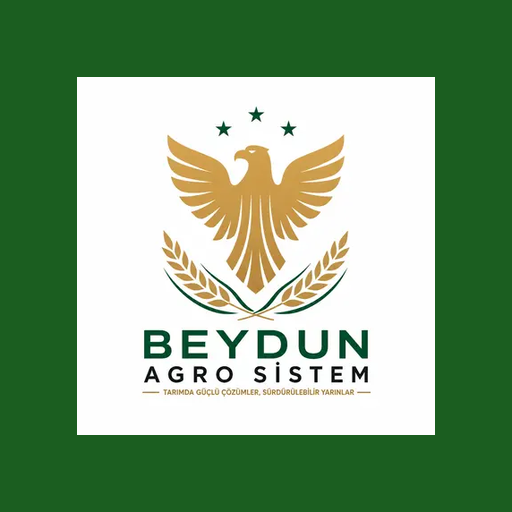
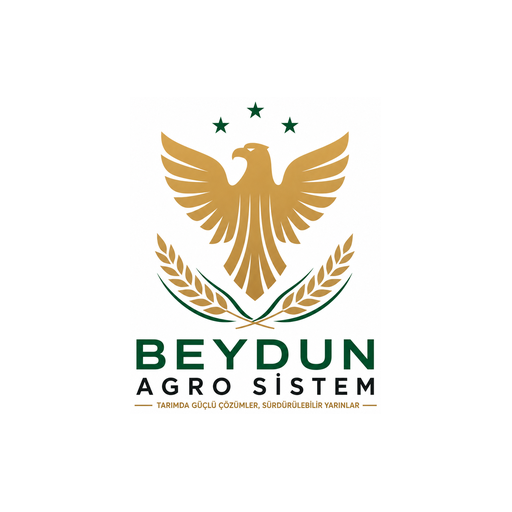
Add files via upload

diff --git a/index.html b/index.html
@@ -1619,10 +1619,6 @@ body.force-desktop .desktop-toggle-btn{bottom:16px;background:linear-gradient(13
       <span class="ni">📊</span><span data-key="dashboard">لوحة التحكم</span></button>
     <button class="nav-btn" onclick="showPage('about')" id="nav-about">
       <span class="ni">🦅</span><span data-key="about">من نحن</span></button>
-    <button class="nav-btn" onclick="showPage('dose')" id="nav-dose" style="background:linear-gradient(135deg,var(--g0),#E8F5E9);border:1.5px solid var(--g1)">
-      <span class="ni">🧪</span><span data-key="navDose">حاسبة الجرعات</span></button>
-    <button class="nav-btn" onclick="showPage('drugtypes')" id="nav-drugtypes" style="background:linear-gradient(135deg,#E8EAF6,#EDE7F6);border:1.5px solid #C5CAE9">
-      <span class="ni">💊</span><span data-key="navDrugtypes">أنواع الدواء</span></button>
   </div>
   <div style="padding:0 6px">
     <div class="nav-lbl" data-key="secDeps">المستودعات</div>
@@ -1643,10 +1639,6 @@ body.force-desktop .desktop-toggle-btn{bottom:16px;background:linear-gradient(13
     <button class="nav-btn" onclick="showPage('invoice')" id="nav-invoice"><span class="ni">🧾</span><span data-key="invoice">فاتورة عميل</span></button>
     <button class="nav-btn" onclick="showPage('sales')" id="nav-sales"><span class="ni">📈</span><span data-key="sales">جرد المبيعات</span></button>
     <button class="nav-btn" onclick="showPage('movements')" id="nav-movements"><span class="ni">🔄</span><span data-key="movements">سجل الحركات</span></button>
-    <button class="nav-btn" onclick="showPage('sprayreminder')" id="nav-sprayreminder" style="background:linear-gradient(135deg,#E8F5E9,#F1F8E9);border:1.5px solid #A5D6A7">
-      <span class="ni">🌿</span><span data-key="sprayReminderPage">وقت العلاج</span>
-      <span class="nav-badge" id="spray-badge" style="display:none;background:#E65100">!</span>
-    </button>
   </div>
   <div style="padding:0 6px">
     <div class="nav-lbl" data-key="secMgmt">الإدارة</div>
@@ -1659,9 +1651,17 @@ body.force-desktop .desktop-toggle-btn{bottom:16px;background:linear-gradient(13
     <button class="nav-btn" onclick="showPage('pricelist')" id="nav-pricelist"><span class="ni">🏷</span><span data-key="pricelist">لائحة الأسعار</span></button>
     <button class="nav-btn" onclick="showPage('customers')" id="nav-customers"><span class="ni">👥</span><span data-key="customers">سجل العملاء</span></button>
     <button class="nav-btn" onclick="showPage('suppliers')" id="nav-suppliers"><span class="ni">🚚</span><span data-key="suppliers">إدارة الموردين</span></button>
-    <button class="nav-btn" onclick="showPage('purchases')" id="nav-purchases" style="background:linear-gradient(135deg,#E8EAF6,#EDE7F6);border:1.5px solid #9FA8DA"><span class="ni">📦</span><span data-key="purchases">فواتير الشراء</span></button>
+    <button class="nav-btn" onclick="showPage('purchases')" id="nav-purchases"><span class="ni">📦</span><span data-key="purchases">فواتير الشراء</span></button>
     <button class="nav-btn" onclick="showPage('products')" id="nav-products"><span class="ni">🧪</span><span data-key="products">إدارة المنتجات</span></button>
     <button class="nav-btn" onclick="openWarehouseManager()" id="nav-whmgr"><span class="ni">🏗</span><span data-key="whmgr">إدارة المستودعات</span></button>
+    <button class="nav-btn" onclick="showPage('dose')" id="nav-dose">
+      <span class="ni">🧪</span><span data-key="navDose">حاسبة الجرعات</span></button>
+    <button class="nav-btn" onclick="showPage('drugtypes')" id="nav-drugtypes">
+      <span class="ni">💊</span><span data-key="navDrugtypes">أنواع الدواء</span></button>
+    <button class="nav-btn" onclick="showPage('sprayreminder')" id="nav-sprayreminder">
+      <span class="ni">🌿</span><span data-key="sprayReminderPage">وقت العلاج</span>
+      <span class="nav-badge" id="spray-badge" style="display:none;background:#E65100">!</span>
+    </button>
     <button class="nav-btn" onclick="openFullBackupModal()" id="nav-backupdata"><span class="ni">💾</span><span data-key="navBackupData">النسخة الاحتياطية</span></button>
   </div>
 </nav>
@@ -2440,6 +2440,7 @@ body.force-desktop .desktop-toggle-btn{bottom:16px;background:linear-gradient(13
         <label style="font-size:11px;color:var(--gy5)" id="lbl-low-threshold">حد المخزون المنخفض:</label>
         <input type="number" id="alert-low-threshold" value="5" min="1" max="100" style="width:60px;font-size:12px;padding:3px 6px;border-radius:5px;border:1px solid var(--gy3)" onchange="renderAlertTab()">
         <span style="font-size:11px;color:var(--gy5)" id="lbl-units">وحدة</span>
+        <button class="btn bsm" id="btn-mark-alerts-read" style="margin-inline-start:auto;background:#2E7D32;color:#fff;border:none;font-size:11px" onclick="markAlertsRead()">✅ <span id="lbl-mark-read" data-key="markRead">تمت القراءة</span></button>
       </div>
       <!-- Content -->
       <div id="alertsPanelBody" style="padding:14px;max-height:450px;overflow-y:auto"></div>
@@ -5463,62 +5464,6 @@ function exportBackup() {
   showToast(`📤 تم التصدير: ${filename}`);
 }
 
-// ── مشاركة النسخة الاحتياطية عبر قائمة مشاركة الجهاز (تلغرام → الرسائل المحفوظة، إلخ) ──
-async function shareBackup() {
-  try { if (typeof loadDosesDB === 'function') loadDosesDB(); } catch(e) {}
-  try { if (typeof loadBackupSettings === 'function') loadBackupSettings(); } catch(e) {}
-
-  var snap = null, raw = null, buildErr = null;
-  try { snap = _buildSnap(); raw = JSON.stringify(snap); } catch(e) { buildErr = e; }
-  if (!raw) {
-    showToast('❌ فشل بناء النسخة الاحتياطية: ' + (buildErr && buildErr.message ? buildErr.message : 'لا توجد بيانات'), 'err');
-    return;
-  }
-
-  const now = new Date();
-  const pad = n => String(n).padStart(2,'0');
-  const datePart = `${now.getFullYear()}-${pad(now.getMonth()+1)}-${pad(now.getDate())}`;
-  const timePart = `${pad(now.getHours())}-${pad(now.getMinutes())}`;
-  const filename = `agro_backup_${datePart}_${timePart}.json`;
-
-  // إن لم تكن مشاركة الملفات مدعومة على هذا الجهاز/المتصفح، نرجع لتصدير عادي
-  if (!(navigator.share && navigator.canShare)) {
-    showToast(currentLang==='ar' ? '⚠ المشاركة غير مدعومة على هذا الجهاز — سيتم التصدير كملف عادي' : '⚠ Paylaşım desteklenmiyor — dosya olarak dışa aktarılıyor', 'err');
-    exportBackup();
-    return;
-  }
-
-  try {
-    const file = new File([raw], filename, { type: 'application/json' });
-    if (!navigator.canShare({ files: [file] })) {
-      showToast(currentLang==='ar' ? '⚠ مشاركة الملفات غير مدعومة هنا — سيتم التصدير كملف عادي' : '⚠ Dosya paylaşımı desteklenmiyor — dışa aktarılıyor', 'err');
-      exportBackup();
-      return;
-    }
-    await navigator.share({
-      files: [file],
-      title: currentLang==='ar' ? 'نسخة احتياطية - بيدون للزراعة' : 'Yedek - Beydun Tarım',
-      text: currentLang==='ar' ? 'نسخة احتياطية بتاريخ ' + datePart : 'Yedekleme ' + datePart
-    });
-    const exportTimeStr = `${pad(now.getHours())}:${pad(now.getMinutes())} — ${pad(now.getDate())}/${pad(now.getMonth()+1)}/${now.getFullYear()}`;
-    try { localStorage.setItem('beydun_last_export', exportTimeStr); } catch(e) {}
-    _updateExportBtn(exportTimeStr);
-    showToast(currentLang==='ar' ? '📤 تم فتح قائمة المشاركة' : '📤 Paylaşım açıldı');
-  } catch (err) {
-    if (err && err.name === 'AbortError') {
-      // المستخدم ألغى المشاركة بنفسه — لا حاجة لأي رسالة
-      return;
-    }
-    // فشل المشاركة لسبب آخر (غالبًا: التطبيق مفتوح عبر content:// وليس عبر خادم/PWA مثبّت،
-    // فيرفض النظام منح إذن الملف لتطبيق آخر برسالة "Permission denied").
-    // نتراجع تلقائيًا لحفظ الملف حتى يستطيع المستخدم إرفاقه يدويًا في تلغرام.
-    showToast(currentLang==='ar'
-      ? '⚠ تعذّرت المشاركة المباشرة من هذا الوضع — تم حفظ الملف بدلاً من ذلك، أرفقه يدويًا في تلغرام'
-      : '⚠ Doğrudan paylaşım başarısız — dosya kaydedildi, Telegramʼa manuel ekleyin', 'err');
-    exportBackup();
-  }
-}
-
 function _updateExportBtn(timeStr) {
   // تحديث زر التصدير في الهيدر
   const btn = document.getElementById('btn-export-bk');
@@ -5805,7 +5750,7 @@ const TX={
     chooseItem:'-- اختر الدواء --',allWh:'🏗 جميع المستودعات',
     editQty:'✏ تعديل الكميات',product:'المنتج',currentQty:'الكمية الحالية',newQty:'الكمية الجديدة',diff:'الفرق',
     pendingChanges:'تغيير معلّق',pendingChangesN:'تغييرات معلّقة',
-    noProducts:'لا توجد منتجات',allDepsBtn:'الكل',
+    noProducts:'لا توجد منتجات',allDepsBtn:'الكل',markRead:'تمت القراءة',
     newMed:'إضافة دواء جديد',medName:'اسم الدواء *',packaging:'التغليف *',price:'السعر (اختياري)',
     addAndSelect:'✅ إضافة وتحديد',
     medExistsSameDep:'موجود بالفعل في هذا المستودع',medExistsOtherDep:'موجود في مستودع آخر — سيُضاف لمستودعك الحالي',newMedName:'اسم جديد',
@@ -6106,7 +6051,7 @@ const TX={
     chooseItem:'-- İlaç seçin --',allWh:'🏗 Tüm Depolar',
     editQty:'✏ Miktarları Düzenle',product:'Ürün',currentQty:'Mevcut Miktar',newQty:'Yeni Miktar',diff:'Fark',
     pendingChanges:'bekleyen değişiklik',pendingChangesN:'bekleyen değişiklik',
-    noProducts:'Ürün yok',allDepsBtn:'Tümü',
+    noProducts:'Ürün yok',allDepsBtn:'Tümü',markRead:'Okundu',
     newMed:'Yeni İlaç Ekle',medName:'İlaç Adı *',packaging:'Ambalaj *',price:'Fiyat (isteğe bağlı)',
     addAndSelect:'✅ Ekle ve Seç',
     medExistsSameDep:'Bu depoda zaten mevcut',medExistsOtherDep:'Başka depoda mevcut — mevcut depona eklenecek',newMedName:'Yeni isim',
@@ -8104,7 +8049,7 @@ function renderDashboard(){
     <div class="al ala" style="margin-bottom:6px;font-size:11px;padding:7px 10px">
       <span>💰</span><strong>${h(x.name)}</strong><span style="color:var(--gy5);margin-right:4px">(${h(depN(x.dep))})</span>
     </div>`).join('')+(np.length>8?`<div style="text-align:center;color:var(--gy5);font-size:11px">+${np.length-8}...</div>`:'');
-  const recent=[...movements,...returnsLog.map(r=>({date:r.date,name:r.name,type:'مرتجع',qty:r.qty}))].sort((a,b)=>b.date.localeCompare(a.date)).slice(0,7);
+  const recent=[...[...movements].reverse(),...returnsLog.slice().reverse().map(r=>({date:r.date,name:r.name,type:'مرتجع',qty:r.qty}))].sort((a,b)=>b.date.localeCompare(a.date)).slice(0,7);
   document.getElementById('dashMov').innerHTML=recent.length?
     '<table style="width:100%;font-size:11px;border-collapse:collapse">'+
     recent.map(m=>{const tc=(m.type==='إدخال'||m.type==='Giriş')?'bg':(m.type==='إخراج'||m.type==='Çıkış')?'br':(m.type==='مرتجع'||m.type==='İade')?'bret':'ba';
@@ -11149,7 +11094,6 @@ function openFullBackupModal() {
           <div style="padding:14px;background:#f8f9fa;border-radius:10px">
             <div style="font-size:12px;color:#555;margin-bottom:10px;line-height:1.5">${T('fbExportDesc')}</div>
             <button class="btn bp" style="width:100%;justify-content:center" onclick="exportBackup()">${T('fbExportBtn')}</button>
-            <button class="btn" style="width:100%;justify-content:center;margin-top:8px;background:#0088cc;color:#fff" onclick="shareBackup()">📨 ${isAr?'مشاركة (تلغرام والمزيد)':'Paylaş (Telegram vb.)'}</button>
             ${lastExport?`<div style="font-size:10px;color:#888;margin-top:6px;text-align:center">${isAr?'آخر تصدير':'Son dışa aktarma'}: ${lastExport}</div>`:''}
           </div>
           <div style="padding:14px;background:#fff8e1;border-radius:10px;border:1px solid #ffe082">
@@ -11612,10 +11556,20 @@ function openCustomerHistory(encodedName){
       <span style="color:var(--gy5)">${isAr?'عميل منذ':'Kayıt'}: ${fmtDate(reg.createdAt||'—')}</span>
     </div>` : ''}
     <!-- Invoices history -->
-    <div style="padding:12px 16px 4px;font-size:12px;font-weight:700;color:var(--gy7)">${isAr?'📜 سجل الفواتير':'📜 Fatura Geçmişi'}</div>
+    <div style="padding:12px 16px 4px;font-size:12px;font-weight:700;color:var(--gy7);display:flex;justify-content:space-between;align-items:center;flex-wrap:wrap;gap:8px">
+      <span>${isAr?'📜 سجل الفواتير':'📜 Fatura Geçmişi'}</span>
+      <div style="display:flex;align-items:center;gap:12px;font-weight:400">
+        <label style="display:flex;align-items:center;gap:4px;cursor:pointer;font-size:11px;color:var(--gy7)">
+          <input type="checkbox" id="custInvSelAll" onchange="_toggleCustInvSelectAll(this.checked)">
+          ${isAr?'تحديد الكل':'Tümünü Seç'}
+        </label>
+        <span id="custInvSelTotal" style="font-size:12px;font-weight:700;color:var(--g8)"></span>
+      </div>
+    </div>
     ${invList.map(inv=>`
       <div style="margin:0 14px 10px;border:1px solid var(--gy2);border-radius:8px;overflow:hidden">
-        <div style="background:linear-gradient(to left,#37474F,#546E7A);color:#fff;padding:8px 14px;display:flex;justify-content:space-between;align-items:center;font-size:12px">
+        <div style="background:linear-gradient(to left,#37474F,#546E7A);color:#fff;padding:8px 14px;display:flex;justify-content:space-between;align-items:center;font-size:12px;gap:6px;flex-wrap:wrap">
+          <input type="checkbox" class="cust-inv-chk" data-inv="${h(inv.invNo)}" data-total="${inv.total}" onchange="_updateCustInvSelTotal()" style="width:15px;height:15px;cursor:pointer">
           <strong>${inv.invNo}</strong>
           <span>${fmtDate(inv.date)}</span>
           <span class="bdg ba" style="font-size:10px">${inv.region||'—'}</span>
@@ -11639,6 +11593,22 @@ function openCustomerHistory(encodedName){
     <div style="height:16px"></div>`;
 
   document.getElementById('custHistModal').classList.remove('hidden');
+}
+
+function _toggleCustInvSelectAll(checked){
+  document.querySelectorAll('.cust-inv-chk').forEach(function(c){ c.checked = checked; });
+  _updateCustInvSelTotal();
+}
+function _updateCustInvSelTotal(){
+  const isAr = currentLang==='ar';
+  const all = document.querySelectorAll('.cust-inv-chk');
+  const checked = document.querySelectorAll('.cust-inv-chk:checked');
+  let total = 0;
+  checked.forEach(function(c){ total += parseFloat(c.getAttribute('data-total'))||0; });
+  const el = document.getElementById('custInvSelTotal');
+  if(el) el.textContent = checked.length ? `${isAr?'إجمالي المحدد':'Seçili Toplam'} (${checked.length}): ${numFmt(total)} ₺` : '';
+  const selAll = document.getElementById('custInvSelAll');
+  if(selAll) selAll.checked = all.length>0 && checked.length===all.length;
 }
 
 function submitCustomer(){
@@ -12964,7 +12934,7 @@ function _calcAlerts() {
   db.forEach(function(x){
     if(!x.expiry) return;
     var diff = Math.ceil((new Date(x.expiry)-new Date(today))/(1000*60*60*24));
-    if(diff <= 60) expiryAlerts.push({name:x.name, pkg:x.pkg, dep:x.dep, date:x.expiry, diff:diff, type:'drug'});
+    if(diff <= 60) expiryAlerts.push({id:x.id, name:x.name, pkg:x.pkg, dep:x.dep, date:x.expiry, diff:diff, type:'drug'});
   });
   try {
     if (typeof sprayReminders !== 'undefined') {
@@ -12992,17 +12962,44 @@ function _calcAlerts() {
   return {lowItems:lowItems, outItems:outItems, expiryAlerts:expiryAlerts, debtItems:debtItems};
 }
 
+function _getReadAlertKeys() {
+  try { return JSON.parse(localStorage.getItem('beydun_alerts_read')||'[]'); } catch(e) { return []; }
+}
+function _saveReadAlertKeys(arr) {
+  try { localStorage.setItem('beydun_alerts_read', JSON.stringify(arr)); } catch(e) {}
+}
+function _buildAlertKeys(data) {
+  var keys = [];
+  data.lowItems.concat(data.outItems).forEach(function(x){ keys.push('stock:'+x.id); });
+  data.expiryAlerts.forEach(function(x){ keys.push('exp:'+(x.id!=null?x.id:(x.name+'|'+x.pkg+'|'+x.date))); });
+  data.debtItems.forEach(function(x){ keys.push('debt:'+x.invNo); });
+  return keys;
+}
+
 function _updateAlertsBadge() {
-  var threshold = parseInt((document.getElementById('alert-low-threshold')||{value:'5'}).value)||5;
-  var lowCount = db.filter(function(x){ return (x.qty<=threshold&&x.qty>=0)||x.outOfStock; }).length;
+  var data = _calcAlerts();
+  var readSet = {};
+  _getReadAlertKeys().forEach(function(k){ readSet[k]=true; });
+  var unreadCount = _buildAlertKeys(data).filter(function(k){ return !readSet[k]; }).length;
   var badge = document.getElementById('alerts-bell-badge');
   if (badge) {
-    if (lowCount>0) { badge.style.display='block'; badge.textContent=lowCount>99?'99+':lowCount; }
+    if (unreadCount>0) { badge.style.display='block'; badge.textContent=unreadCount>99?'99+':unreadCount; }
     else { badge.style.display='none'; }
   }
   // Also update dashboard alert count
   var dashCnt = document.getElementById('alertCnt');
-  if (dashCnt) dashCnt.textContent = lowCount;
+  if (dashCnt) dashCnt.textContent = unreadCount;
+}
+
+function markAlertsRead() {
+  var data = _calcAlerts();
+  var readSet = {};
+  _getReadAlertKeys().forEach(function(k){ readSet[k]=true; });
+  _buildAlertKeys(data).forEach(function(k){ readSet[k]=true; });
+  _saveReadAlertKeys(Object.keys(readSet));
+  _updateAlertsBadge();
+  renderAlertTab();
+  showToast(currentLang==='ar' ? '✅ تمت القراءة' : '✅ Okundu olarak işaretlendi');
 }
 
 function openAlertsPanel() {
@@ -13190,9 +13187,6 @@ setInterval(_updateAlertsBadge, 60000);
       تصدير نسخة احتياطية
       <br><span class="mob-sheet-sub" style="font-size:10px;color:var(--gy5);font-weight:400">آخر تصدير: —</span>
     </span>
-  </button>
-  <button class="mob-sheet-btn" onclick="closeMobActions();shareBackup()">
-    <span class="mob-sheet-icon">📨</span> مشاركة (تلغرام والمزيد)
   </button>
   <button class="mob-sheet-btn" onclick="openImportFromMobile()">
     <span class="mob-sheet-icon">📥</span> استيراد نسخة احتياطية

diff --git a/CHANGELOG.md b/CHANGELOG.md
@@ -59,6 +59,56 @@
 
 ---
 
+## [v18] — 2026-07-26
+### تم الإصلاح
+- عدم توافق ترتيب **"آخر الحركات"** (لوحة التحكم) مع **"سجل الحركات"**
+  الكامل: كان الفرز فيهما بالتاريخ فقط (بدقة يوم واحد)، فتحافظ حركات نفس
+  اليوم على ترتيبها الأصلي بدل الأحدث-أولاً في واجهة "آخر الحركات"، بينما
+  "سجل الحركات" الكامل يعرضها معكوسة (الأحدث أولاً) — الآن كلا الشاشتين
+  تعرضان نفس ترتيب حركات نفس اليوم (الأحدث أولاً).
+
+### أُضيف
+- في **سجل العميل** (سجل العملاء ← 📋)، بجانب عنوان "سجل الفواتير":
+  خيار **"تحديد الكل"** + مربع اختيار (checkbox) على كل فاتورة، مع عرض
+  إجمالي الفواتير المحددة فقط تلقائيًا (`_toggleCustInvSelectAll()`,
+  `_updateCustInvSelTotal()`).
+
+## [v17] — 2026-07-26
+### تغيّر
+- استُبدلت كل أيقونات التطبيق (`favicon-16.png`, `favicon-32.png`,
+  `icon-180.png`, `icon-192.png`, `icon-512.png`, `icon-maskable-192.png`,
+  `icon-maskable-512.png`) بالشعار الجديد (نسر ذهبي + سنابل قمح + 3 نجوم +
+  عبارة BEYDUN AGRO SİSTEM). الأيقونات العادية استُخدم فيها الشعار كاملاً،
+  بينما نسختا `maskable` أُعيد توسيطهما بهامش أمان أكبر (safe zone) لتجنّب
+  اقتصاص النص أو النجوم عند القص الدائري/المربّع على أندرويد. الشعار المُضمّن
+  داخل الواجهة (الشريط الجانبي) لم يتغيّر لأنه يطابق نفس التصميم أصلاً.
+
+## [v16] — 2026-07-24
+### أُضيف
+- زر **"تمت القراءة"** في نافذة مركز التنبيهات (🔔): يضع علامة "مقروء" على كل
+  التنبيهات الحالية (مخزون منخفض/نافد، انتهاء صلاحية، ديون مستحقة) عبر مفاتيح
+  فريدة محفوظة في `localStorage` (`beydun_alerts_read`)، فيختفي عداد الجرس
+  حتى تظهر تنبيهات جديدة فعلاً لم تُقرأ من قبل.
+  - `markAlertsRead()`, `_buildAlertKeys()`, `_getReadAlertKeys()`,
+    `_saveReadAlertKeys()`.
+  - تحديث `_updateAlertsBadge()` ليحسب العدد "غير المقروء" عبر كل الأنواع
+    الثلاثة بدل الاعتماد فقط على المخزون المنخفض.
+
+### تغيّر
+- إعادة ترتيب الشريط الجانبي: نُقلت أزرار **"حاسبة الجرعات"**،
+  **"أنواع الدواء"**، و**"وقت العلاج"** لتصبح مباشرة أسفل زر
+  **"إدارة المستودعات"** (ضمن قسم "الإدارة")، بدل تفرّقها بين قسمي
+  "الرئيسية" و"المبيعات".
+- إزالة التمييز اللوني الخاص عن زر **"فواتير الشراء"** (كان بخلفية بنفسجية
+  فاتحة مميزة) ليصبح بنفس شكل بقية أزرار قسم "الإدارة".
+
+## [v15] — 2026-07-24
+### حُذف
+- خيار **"مشاركة (تلغرام والمزيد)"** لتصدير النسخة الاحتياطية عبر
+  Web Share API (`shareBackup()`)، مع زرّيه في نافذة "النسخة الاحتياطية"
+  الكاملة (القائمة الجانبية) وفي قائمة إجراءات الجوال (Bottom Sheet).
+  التصدير العادي (`exportBackup()`) لا يزال متاحًا كما هو.
+
 ## [v14] — 2026-07-24
 ### أُضيف
 - زر **"إخفاء المنتهي"** (إخفاء الأدوية نافدة المخزون، qty=0) في صفحة
